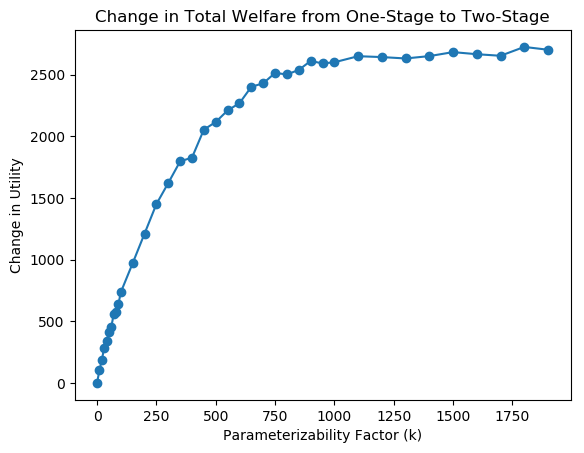
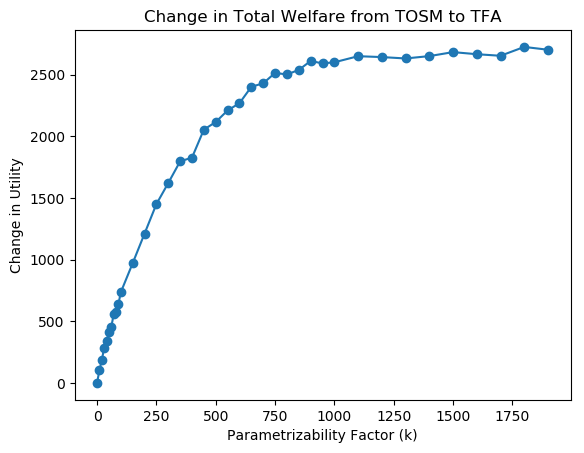
fixed graphs

Changed region(s): [[0.1541, 0.0, 0.9555, 0.0618], [0.3699, 0.9272, 0.7397, 0.989]]

diff --git a/tfa-match/simulation.py b/tfa-match/simulation.py
@@ -219,8 +219,8 @@ def graph_results(ks, results):
     f = plt.figure()
     plt.plot(ks, deltas, marker='o')
     plt.ylabel("Change in Utility")
-    plt.xlabel("Parameterizability Factor (k)")
-    plt.title("Change in Total Welfare from One-Stage to Two-Stage")
+    plt.xlabel("Parametrizability Factor (k)")
+    plt.title("Change in Total Welfare from TOSM to TFA")
     f.savefig(fig_dir + "delta-utility-1stage-2stage.png", bbox_inches='tight')
     f.clear()
     plt.close(f)
@@ -228,8 +228,8 @@ def graph_results(ks, results):
     f = plt.figure()
     plt.plot(ks, matching1_utilities, marker='o')
     plt.ylabel("Utility")
-    plt.xlabel("Parameterizability Factor (k)")
-    plt.title("One-Stage Matching Utilities")
+    plt.xlabel("Parametrizability Factor (k)")
+    plt.title("TOSM Matching Utilities")
     f.savefig(fig_dir + "1stage-utility.png", bbox_inches='tight')
     f.clear()
     plt.close(f)
@@ -237,8 +237,8 @@ def graph_results(ks, results):
     f = plt.figure()
     plt.plot(ks, matching2_utilities, marker='o')
     plt.ylabel("Utility")
-    plt.xlabel("Parameterizability Factor (k)")
-    plt.title("Two-Stage Matching Utilities")
+    plt.xlabel("Parametrizability Factor (k)")
+    plt.title("TFA Matching Utilities")
     f.savefig(fig_dir + "2stage-utility.png", bbox_inches='tight')
     f.clear()
     plt.close(f)
@@ -255,7 +255,7 @@ def run_simulation():
 
     # eventually loop for different k_arrays
     # using array allows for different degrees of randomness between teachers
-    # eg. first half completely parameterized by region, second half very random
+    # eg. first half completely parametrized by region, second half very random
 
     print("************** Varying K *****************")
     results = []
